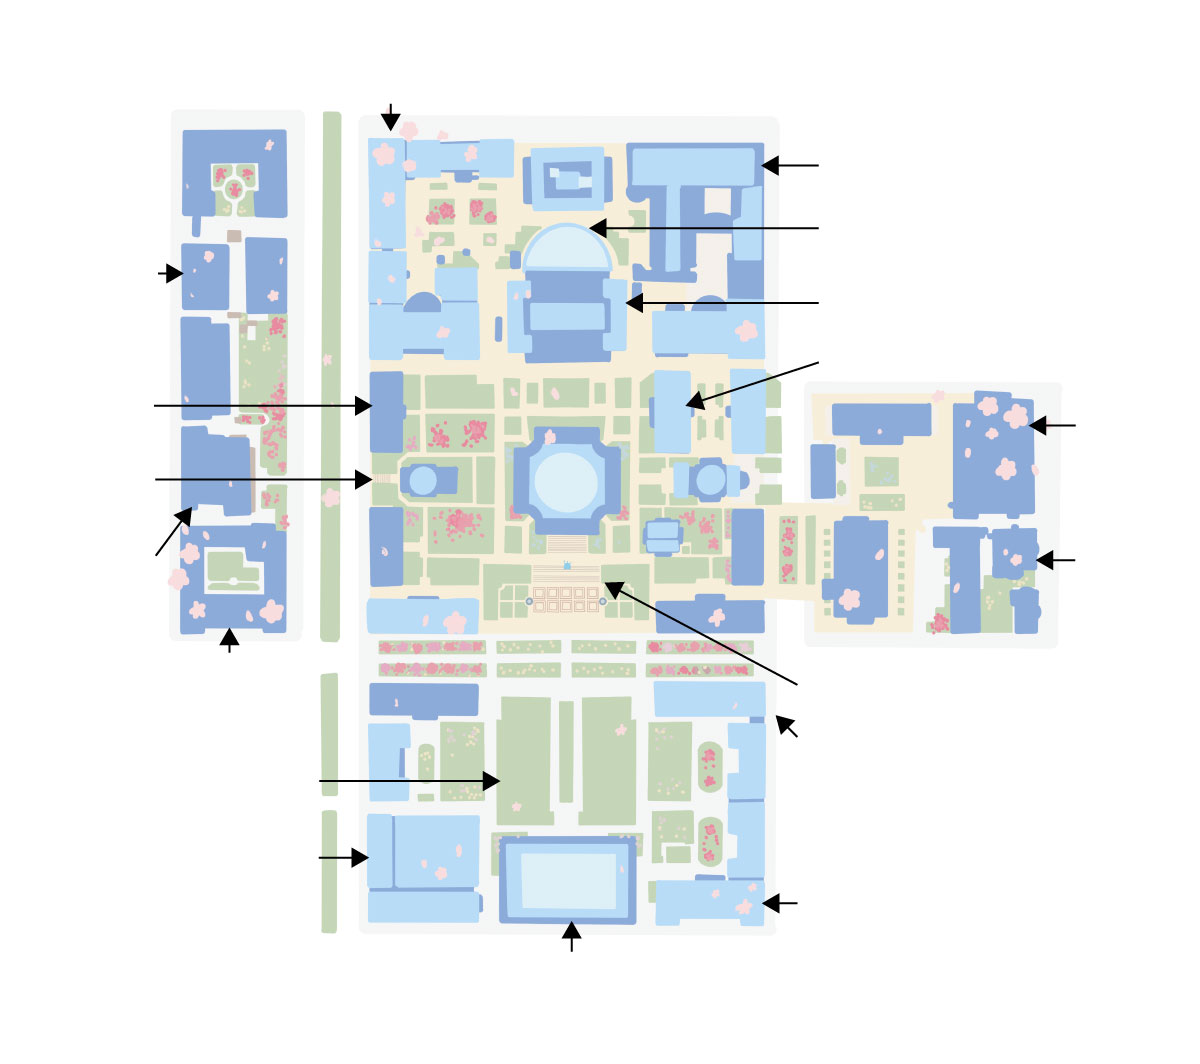
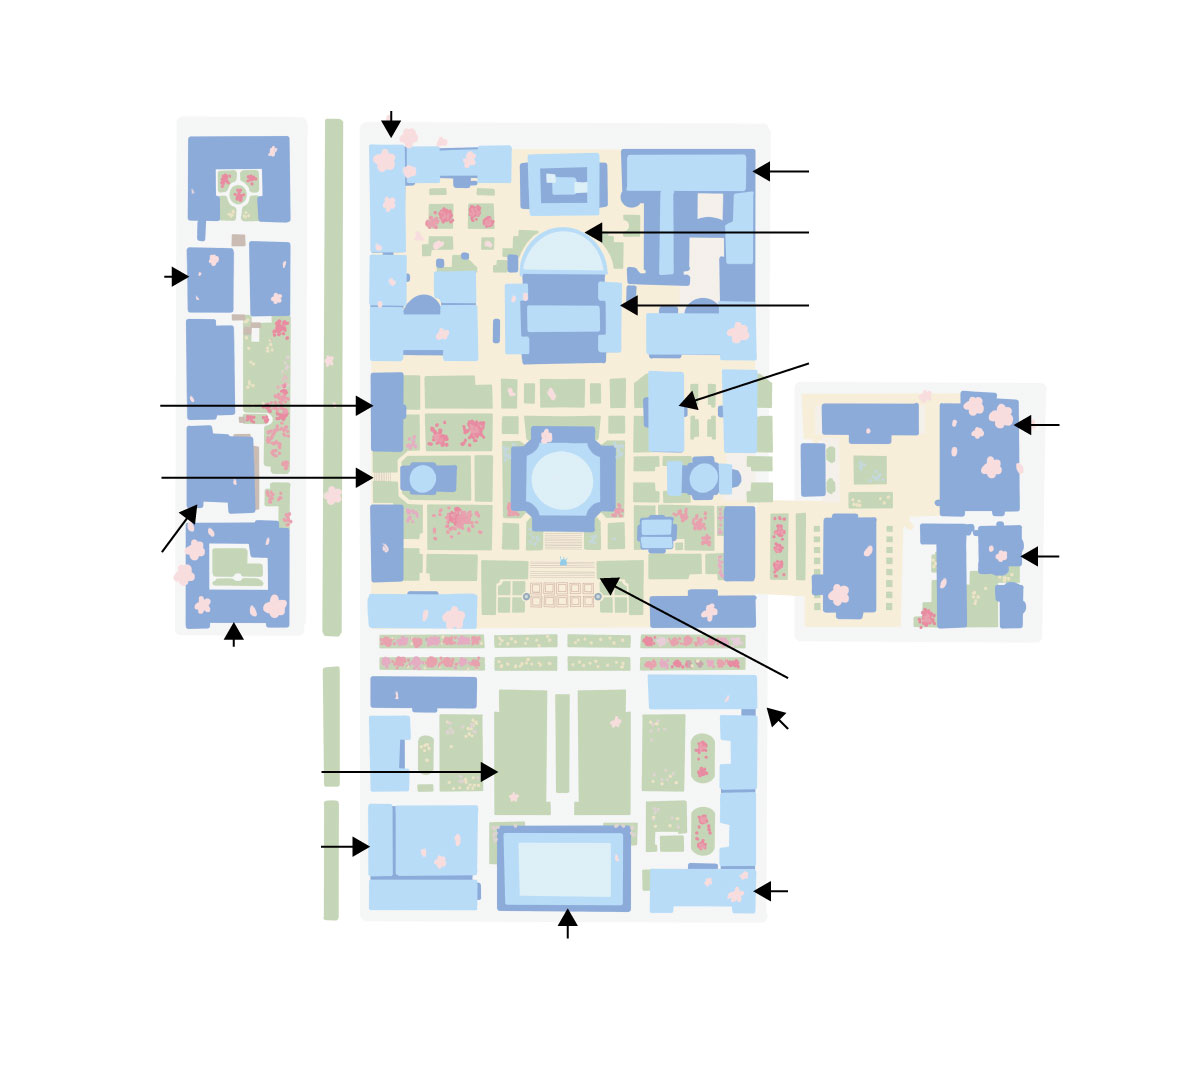
Add files via upload

Changed region(s): [[0.1233, 0.093, 0.8942, 0.8994]]

diff --git a/index.html b/index.html
@@ -14,13 +14,13 @@
                 
 
 
-<style media="screen,print">#g-Commencement-Map-box{container-type:inline-size;container-name:g-Commencement-Map-box}#g-Commencement-Map-box,#g-Commencement-Map-box .g-artboard{margin:0 auto}#g-Commencement-Map-box p{margin:0}#g-Commencement-Map-box .g-aiAbs{position:absolute}#g-Commencement-Map-box .g-aiImg{position:absolute;top:0;display:block;width:100%!important}#g-Commencement-Map-box .g-aiSymbol{position:absolute;box-sizing:border-box}#g-Commencement-Map-box .g-aiPointText p{white-space:nowrap}#g-Commencement-Map-Laptop_Artboard{position:relative;overflow:hidden;display:none}@container g-Commencement-Map-box (width >= 1200px){#g-Commencement-Map-Laptop_Artboard{display:block}}#g-Commencement-Map-Laptop_Artboard p{font-weight:regular;line-height:22px;opacity:1;letter-spacing:0;font-size:18px;text-align:left;color:#000;text-transform:none;padding-bottom:0;padding-top:0;mix-blend-mode:normal;font-style:normal;height:auto;position:static}#g-Commencement-Map-Laptop_Artboard .g-pstyle0{font-weight:500;text-align:center}#g-Commencement-Map-Laptop_Artboard .g-pstyle1{font-weight:500}#g-Commencement-Map-Laptop_Artboard .g-pstyle2{font-weight:500;text-align:right}#g-Commencement-Map-Laptop_Artboard .g-pstyle3{font-weight:500;line-height:19px;font-size:16px;text-align:center;color:#fff}#g-Commencement-Map-Laptop_Artboard .g-pstyle4{color:#949494}#g-Commencement-Map-Laptop_Artboard .g-pstyle4,#g-Commencement-Map-Laptop_Artboard .g-pstyle5{font-family:Roboto,Arial,sans-serif;font-weight:400;line-height:19px;height:19px;font-size:16px}#g-Commencement-Map-Laptop_Artboard .g-cstyle0{color:#000}#g-Commencement-Map-Tablet_Artboard{position:relative;overflow:hidden;display:none}@container g-Commencement-Map-box (width >= 600px) and (width < 1200px){#g-Commencement-Map-Tablet_Artboard{display:block}}#g-Commencement-Map-Tablet_Artboard p{font-weight:regular;line-height:11px;opacity:1;letter-spacing:0;font-size:9px;text-align:left;color:#000;text-transform:none;padding-bottom:0;padding-top:0;mix-blend-mode:normal;font-style:normal;height:auto;position:static}#g-Commencement-Map-Tablet_Artboard .g-pstyle0{font-weight:500;text-align:center}#g-Commencement-Map-Tablet_Artboard .g-pstyle1{font-weight:500}#g-Commencement-Map-Tablet_Artboard .g-pstyle2{font-weight:500;text-align:right}#g-Commencement-Map-Tablet_Artboard .g-pstyle3{font-weight:500;line-height:10px;font-size:8px;text-align:center;color:#fff}#g-Commencement-Map-Tablet_Artboard .g-pstyle4{color:#949494}#g-Commencement-Map-Tablet_Artboard .g-pstyle4,#g-Commencement-Map-Tablet_Artboard .g-pstyle5{font-family:Roboto,Arial,sans-serif;font-weight:400;height:11px}#g-Commencement-Map-Tablet_Artboard .g-cstyle0{color:#000}#g-Commencement-Map-Mobile_Artboard{position:relative;overflow:hidden}@container g-Commencement-Map-box (width >= 600px){#g-Commencement-Map-Mobile_Artboard{display:none}}#g-Commencement-Map-Mobile_Artboard p{font-weight:regular;line-height:5px;opacity:1;letter-spacing:0;font-size:4px;text-align:left;color:#000;text-transform:none;padding-bottom:0;padding-top:0;mix-blend-mode:normal;font-style:normal;height:auto;position:static}#g-Commencement-Map-Mobile_Artboard .g-pstyle0{font-weight:500;text-align:center}#g-Commencement-Map-Mobile_Artboard .g-pstyle1{font-weight:500}#g-Commencement-Map-Mobile_Artboard .g-pstyle2{font-weight:500;text-align:right}#g-Commencement-Map-Mobile_Artboard .g-pstyle3{font-weight:500;text-align:center;color:#fff}#g-Commencement-Map-Mobile_Artboard .g-pstyle4{color:#949494}#g-Commencement-Map-Mobile_Artboard .g-pstyle4,#g-Commencement-Map-Mobile_Artboard .g-pstyle5{font-family:Roboto,Arial,sans-serif;font-weight:400;line-height:6px;height:6px;font-size:5px}#g-Commencement-Map-Mobile_Artboard .g-cstyle0{color:#000}</style>
+<style media="screen,print">#g-Commencement-Map-box{container-type:inline-size;container-name:g-Commencement-Map-box}#g-Commencement-Map-box,#g-Commencement-Map-box .g-artboard{margin:0 auto}#g-Commencement-Map-box p{margin:0}#g-Commencement-Map-box .g-aiAbs{position:absolute}#g-Commencement-Map-box .g-aiImg{position:absolute;top:0;display:block;width:100%!important}#g-Commencement-Map-box .g-aiSymbol{position:absolute;box-sizing:border-box}#g-Commencement-Map-box .g-aiPointText p{white-space:nowrap}#g-Commencement-Map-Laptop_Artboard{position:relative;overflow:hidden;display:none}@container g-Commencement-Map-box (width >= 1200px){#g-Commencement-Map-Laptop_Artboard{display:block}}#g-Commencement-Map-Laptop_Artboard p{font-weight:regular;line-height:22px;opacity:1;letter-spacing:0;font-size:18px;text-align:left;color:#000;text-transform:none;padding-bottom:0;padding-top:0;mix-blend-mode:normal;font-style:normal;height:auto;position:static}#g-Commencement-Map-Laptop_Artboard .g-pstyle0{font-weight:500;text-align:center}#g-Commencement-Map-Laptop_Artboard .g-pstyle1{font-weight:500}#g-Commencement-Map-Laptop_Artboard .g-pstyle2{font-weight:500;text-align:right}#g-Commencement-Map-Laptop_Artboard .g-pstyle3{color:#949494}#g-Commencement-Map-Laptop_Artboard .g-pstyle3,#g-Commencement-Map-Laptop_Artboard .g-pstyle4{font-family:Roboto,Arial,sans-serif;font-weight:400;line-height:19px;height:19px;font-size:16px}#g-Commencement-Map-Laptop_Artboard .g-cstyle0{color:#000}#g-Commencement-Map-Mobile_Artboard{position:relative;overflow:hidden}@container g-Commencement-Map-box (width >= 600px){#g-Commencement-Map-Mobile_Artboard{display:none}}#g-Commencement-Map-Mobile_Artboard p{font-weight:regular;line-height:5px;opacity:1;letter-spacing:0;font-size:4px;text-align:left;color:#000;text-transform:none;padding-bottom:0;padding-top:0;mix-blend-mode:normal;font-style:normal;height:auto;position:static}#g-Commencement-Map-Mobile_Artboard .g-pstyle0{font-weight:500;text-align:center}#g-Commencement-Map-Mobile_Artboard .g-pstyle1{font-weight:500}#g-Commencement-Map-Mobile_Artboard .g-pstyle2{font-weight:500;text-align:right}#g-Commencement-Map-Mobile_Artboard .g-pstyle3{color:#949494}#g-Commencement-Map-Mobile_Artboard .g-pstyle3,#g-Commencement-Map-Mobile_Artboard .g-pstyle4{font-family:Roboto,Arial,sans-serif;font-weight:400;line-height:6px;height:6px;font-size:5px}#g-Commencement-Map-Mobile_Artboard .g-cstyle0{color:#000}#g-Commencement-Map-Tablet_Artboard{position:relative;overflow:hidden;display:none}@container g-Commencement-Map-box (width >= 600px) and (width < 1200px){#g-Commencement-Map-Tablet_Artboard{display:block}}#g-Commencement-Map-Tablet_Artboard p{font-weight:regular;line-height:11px;opacity:1;letter-spacing:0;font-size:9px;text-align:left;color:#000;text-transform:none;padding-bottom:0;padding-top:0;mix-blend-mode:normal;font-style:normal;height:auto;position:static}#g-Commencement-Map-Tablet_Artboard .g-pstyle0{font-weight:500;text-align:center}#g-Commencement-Map-Tablet_Artboard .g-pstyle1{font-weight:500}#g-Commencement-Map-Tablet_Artboard .g-pstyle2{font-weight:500;text-align:right}#g-Commencement-Map-Tablet_Artboard .g-pstyle3{color:#949494}#g-Commencement-Map-Tablet_Artboard .g-pstyle3,#g-Commencement-Map-Tablet_Artboard .g-pstyle4{font-family:Roboto,Arial,sans-serif;font-weight:400;line-height:17px;height:17px;font-size:14px}#g-Commencement-Map-Tablet_Artboard .g-cstyle0{color:#000}</style>
 
 <div id="g-Commencement-Map-box" class="ai2html">
 	
 	<div id="g-Commencement-Map-Laptop_Artboard" class="g-artboard" style="width:1200px;height:1100px;" data-aspect-ratio="1.091" data-min-width="1200">
 		<div></div>
-		<img id="g-Commencement-Map-Laptop_Artboard-img" class="g-aiImg g-Commencement-Map-Laptop_Artboard-img" alt="" src="Commencement-Map-Laptop_Artboard.a4b33018.jpg">
+		<img id="g-Commencement-Map-Laptop_Artboard-img" class="g-aiImg g-Commencement-Map-Laptop_Artboard-img" alt="" loading="lazy" src="Commencement-Map-Laptop_Artboard.a4b33018.jpg">
 		<div id="g-ai0-1" class="g-aiAbs g-Layer_1" style="top:.1818%;left:32.1653%;margin-left:-5.5833%;width:11.1667%;">
 			<p class="g-pstyle0">100 hours spent on unsuccessful coffee chats</p>
 			<p>&nbsp;</p>
@@ -59,7 +59,7 @@
 			<p class="g-pstyle0">5 trauma-bonded lifelong friendships formed</p>
 		</div>
 		<div id="g-ai0-13" class="g-aiAbs g-Layer_1" style="top:60.0909%;left:66.0635%;width:21.5%;">
-			<p class="g-pstyle1">1 graduation almost at Baker</p>
+			<p class="g-pstyle1">1 commencement (It was almost at Baker)</p>
 		</div>
 		<div id="g-ai0-14" class="g-aiAbs g-Layer_1" style="top:64.8182%;left:66.2664%;width:14.3333%;">
 			<p class="g-pstyle1">30 hours spent in elevator queues </p>
@@ -74,163 +74,142 @@
 		<div id="g-ai0-17" class="g-aiAbs g-Layer_1" style="top:79.7273%;left:66.2664%;width:20.6667%;">
 			<p class="g-pstyle1">11 suspected JJ&rsquo;s food poisoning incidents</p>
 		</div>
-		<div id="g-ai0-18" class="g-aiAbs g-Layer_1" style="top:80.0909%;left:72.666%;margin-left:-3.375%;width:6.75%;">
-			<p class="g-pstyle3">11 suspected JJ&rsquo;s Place food poisoning incidents</p>
-		</div>
-		<div id="g-ai0-19" class="g-aiAbs g-Layer_1" style="top:80.0909%;left:72.666%;margin-left:-3.375%;width:6.75%;">
-			<p class="g-pstyle3">11 suspected JJ&rsquo;s Place food poisoning incidents</p>
-		</div>
-		<div id="g-ai0-20" class="g-aiAbs g-Layer_1" style="top:86.4545%;left:47.2367%;margin-left:-5.875%;width:11.75%;">
+		<div id="g-ai0-18" class="g-aiAbs g-Layer_1" style="top:86.4545%;left:47.2367%;margin-left:-5.875%;width:11.75%;">
 			<p class="g-pstyle0">9 all-nighters completed</p>
 		</div>
-		<div id="g-ai0-21" class="g-aiAbs g-aiPointText g-Layer_1" style="top:96.8283%;margin-top:-20.1px;left:1.7692%;width:171px;">
-			<p class="g-pstyle4">Graphic by Ava Fung<span class="g-cstyle0"> </span></p>
-			<p class="g-pstyle5"> </p>
-		</div>
-	</div>
-	
-	<div id="g-Commencement-Map-Tablet_Artboard" class="g-artboard" style="width:600px;height:532.100407647296px;" data-aspect-ratio="1.128" data-min-width="600" data-max-width="1199">
-		<div></div>
-		<img id="g-Commencement-Map-Tablet_Artboard-img" class="g-aiImg g-Commencement-Map-Tablet_Artboard-img" alt="" src="Commencement-Map-Tablet_Artboard.f4940fc9.jpg">
-		<div id="g-ai1-1" class="g-aiAbs g-Layer_1" style="top:.5638%;left:32.5583%;margin-left:-5.5833%;width:11.1667%;">
-			<p class="g-pstyle0">100 hours spent on unsuccessful coffee chats</p>
-			<p>&nbsp;</p>
-		</div>
-		<div id="g-ai1-2" class="g-aiAbs g-Layer_1" style="top:13.3433%;left:68.609%;width:19.5%;">
-			<p class="g-pstyle1">0 meal swipes used at Chef Don&rsquo;s</p>
-		</div>
-		<div id="g-ai1-3" class="g-aiAbs g-Layer_1" style="top:19.7331%;left:68.609%;width:19%;">
-			<p class="g-pstyle1">-1 net study hours recorded in study rooms</p>
-		</div>
-		<div id="g-ai1-4" class="g-aiAbs g-Layer_1" style="top:20.4849%;right:86.9327%;width:12.6667%;">
-			<p class="g-pstyle2">17 &ldquo;Construction will be done soon&rdquo; announcements received</p>
-		</div>
-		<div id="g-ai1-5" class="g-aiAbs g-Layer_1" style="top:26.4988%;left:68.609%;width:21%;">
-			<p class="g-pstyle1">24 questions asked at networking events</p>
-		</div>
-		<div id="g-ai1-6" class="g-aiAbs g-Layer_1" style="top:31.3851%;left:68.8338%;width:22%;">
-			<p class="g-pstyle1">22 &ldquo;shhh&rdquo; interruptions endured during finals week</p>
-		</div>
-		<div id="g-ai1-7" class="g-aiAbs g-Layer_1" style="top:36.2713%;right:87.4781%;width:12.3333%;">
-			<p class="g-pstyle2">4 calculus exams bombed</p>
-		</div>
-		<div id="g-ai1-8" class="g-aiAbs g-Layer_1" style="top:36.6472%;left:90.0874%;width:8.6667%;">
-			<p class="g-pstyle1">17 pregames attended</p>
-		</div>
-		<div id="g-ai1-9" class="g-aiAbs g-Layer_1" style="top:41.9094%;right:87.3604%;width:12.5%;">
-			<p class="g-pstyle2">5 documented falls on the Earl stairs</p>
-		</div>
-		<div id="g-ai1-10" class="g-aiAbs g-Layer_1" style="top:44.9163%;left:14.5596%;width:83.3333%;">
-			<p class="g-pstyle1">📌 How to read this chart</p>
-		</div>
-		<div id="g-ai1-11" class="g-aiAbs g-Layer_1" style="top:47.5474%;left:90.0325%;width:10.1667%;">
-			<p class="g-pstyle1">103 chocolate chip cookies smuggled out of Fac House</p>
-		</div>
-		<div id="g-ai1-12" class="g-aiAbs g-Layer_1" style="top:49.2388%;right:87.0994%;width:12.5%;">
-			<p class="g-pstyle2">90,000 grams of protein consumed</p>
-		</div>
-		<div id="g-ai1-13" class="g-aiAbs g-Layer_1" style="top:61.6425%;left:18.3639%;margin-left:-9%;width:18%;">
-			<p class="g-pstyle0">5 trauma-bonded lifelong friendships formed</p>
-		</div>
-		<div id="g-ai1-14" class="g-aiAbs g-Layer_1" style="top:62.5822%;left:66.4451%;width:21.5%;">
-			<p class="g-pstyle1">1 graduation almost at Baker</p>
-		</div>
-		<div id="g-ai1-15" class="g-aiAbs g-Layer_1" style="top:67.4685%;left:66.648%;width:14.3333%;">
-			<p class="g-pstyle1">30 hours spent in elevator queues </p>
-		</div>
-		<div id="g-ai1-16" class="g-aiAbs g-Layer_1" style="top:71.603%;right:73.8393%;width:14.1667%;">
-			<p class="g-pstyle2">7 spikeball impacts sustained</p>
-			<p>&nbsp;</p>
-		</div>
-		<div id="g-ai1-17" class="g-aiAbs g-Layer_1" style="top:77.9928%;right:73.8056%;width:19.1667%;">
-			<p class="g-pstyle2">300 Flex dollars spent at Café East in the last week of school</p>
-		</div>
-		<div id="g-ai1-18" class="g-aiAbs g-Layer_1" style="top:82.8791%;left:66.648%;width:20.6667%;">
-			<p class="g-pstyle1">11 suspected JJ&rsquo;s food poisoning incidents</p>
-		</div>
-		<div id="g-ai1-19" class="g-aiAbs g-Layer_1" style="top:83.067%;left:73.005%;margin-left:-3.3333%;width:6.6667%;">
-			<p class="g-pstyle3">11 suspected JJ&rsquo;s Place food poisoning incidents</p>
-		</div>
-		<div id="g-ai1-20" class="g-aiAbs g-Layer_1" style="top:83.067%;left:73.005%;margin-left:-3.3333%;width:6.6667%;">
-			<p class="g-pstyle3">11 suspected JJ&rsquo;s Place food poisoning incidents</p>
-		</div>
-		<div id="g-ai1-21" class="g-aiAbs g-Layer_1" style="top:89.6447%;left:47.6671%;margin-left:-5.9167%;width:11.8333%;">
-			<p class="g-pstyle0">9 all-nighters completed</p>
-		</div>
-		<div id="g-ai1-22" class="g-aiAbs g-aiPointText g-Layer_1" style="top:98.0019%;margin-top:-11.5px;left:.6076%;width:106px;">
-			<p class="g-pstyle4">Graphic by Ava Fung<span class="g-cstyle0"> </span></p>
-			<p class="g-pstyle5"> </p>
+		<div id="g-ai0-19" class="g-aiAbs g-aiPointText g-Layer_1" style="top:96.8283%;margin-top:-20.1px;left:2.0661%;width:171px;">
+			<p class="g-pstyle3">Graphic by Ava Fung<span class="g-cstyle0"> </span></p>
+			<p class="g-pstyle4"> </p>
 		</div>
 	</div>
 	
 	<div id="g-Commencement-Map-Mobile_Artboard" class="g-artboard" style="max-width:300px;max-height:275px" data-aspect-ratio="1.091" data-min-width="0" data-max-width="599">
 		<div style="padding:0 0 91.6231% 0;"></div>
-		<img id="g-Commencement-Map-Mobile_Artboard-img" class="g-aiImg g-Commencement-Map-Mobile_Artboard-img" alt="" src="Commencement-Map-Mobile_Artboard.fdd98706.jpg">
-		<div id="g-ai2-1" class="g-aiAbs g-Layer_1" style="top:1.0914%;left:32.2461%;margin-left:-5.5%;width:11%;">
+		<img id="g-Commencement-Map-Mobile_Artboard-img" class="g-aiImg g-Commencement-Map-Mobile_Artboard-img" alt="" loading="lazy" src="Commencement-Map-Mobile_Artboard.fdd98706.jpg">
+		<div id="g-ai1-1" class="g-aiAbs g-Layer_1" style="top:1.0914%;left:32.2461%;margin-left:-5.5%;width:11%;">
 			<p class="g-pstyle0">100 hours spent on unsuccessful coffee chats</p>
 			<p>&nbsp;</p>
 		</div>
-		<div id="g-ai2-2" class="g-aiAbs g-Layer_1" style="top:13.4609%;left:68.2418%;width:19.3333%;">
+		<div id="g-ai1-2" class="g-aiAbs g-Layer_1" style="top:13.4609%;left:68.2418%;width:19.3333%;">
 			<p class="g-pstyle1">0 meal swipes used at Chef Don&rsquo;s</p>
 		</div>
-		<div id="g-ai2-3" class="g-aiAbs g-Layer_1" style="top:19.2819%;left:68.2418%;width:19%;">
+		<div id="g-ai1-3" class="g-aiAbs g-Layer_1" style="top:19.2819%;left:68.2418%;width:19%;">
 			<p class="g-pstyle1">-1 net study hours recorded in study rooms</p>
 		</div>
-		<div id="g-ai2-4" class="g-aiAbs g-Layer_1" style="top:20.0095%;right:87.0731%;width:12.6667%;">
+		<div id="g-ai1-4" class="g-aiAbs g-Layer_1" style="top:20.0095%;right:87.0731%;width:12.6667%;">
 			<p class="g-pstyle2">17 &ldquo;Construction will be done soon&rdquo; announcements received</p>
 		</div>
-		<div id="g-ai2-5" class="g-aiAbs g-Layer_1" style="top:26.1943%;left:68.2418%;width:21%;">
+		<div id="g-ai1-5" class="g-aiAbs g-Layer_1" style="top:26.1943%;left:68.2418%;width:21%;">
 			<p class="g-pstyle1">24 questions asked at networking events</p>
 		</div>
-		<div id="g-ai2-6" class="g-aiAbs g-Layer_1" style="top:30.56%;left:68.4658%;width:22%;">
+		<div id="g-ai1-6" class="g-aiAbs g-Layer_1" style="top:30.56%;left:68.4658%;width:22%;">
 			<p class="g-pstyle1">22 &ldquo;shhh&rdquo; interruptions endured during finals week</p>
 		</div>
-		<div id="g-ai2-7" class="g-aiAbs g-Layer_1" style="top:35.2895%;right:87.6178%;width:12.3333%;">
+		<div id="g-ai1-7" class="g-aiAbs g-Layer_1" style="top:35.2895%;right:87.6178%;width:12.3333%;">
 			<p class="g-pstyle2">4 calculus exams bombed</p>
 		</div>
-		<div id="g-ai2-8" class="g-aiAbs g-Layer_1" style="top:35.6533%;left:89.6487%;width:8.6667%;">
+		<div id="g-ai1-8" class="g-aiAbs g-Layer_1" style="top:35.6533%;left:89.6487%;width:8.6667%;">
 			<p class="g-pstyle1">17 pregames attended</p>
 		</div>
-		<div id="g-ai2-9" class="g-aiAbs g-Layer_1" style="top:40.7466%;right:87.6667%;width:12.3333%;">
+		<div id="g-ai1-9" class="g-aiAbs g-Layer_1" style="top:40.7466%;right:87.6667%;width:12.3333%;">
 			<p class="g-pstyle2">5 documented falls on the Earl stairs</p>
 		</div>
-		<div id="g-ai2-10" class="g-aiAbs g-Layer_1" style="top:46.2038%;left:89.594%;width:10%;">
+		<div id="g-ai1-10" class="g-aiAbs g-Layer_1" style="top:46.2038%;left:89.594%;width:10%;">
 			<p class="g-pstyle1">103 chocolate chip cookies smuggled out of Fac House</p>
 		</div>
-		<div id="g-ai2-11" class="g-aiAbs g-Layer_1" style="top:48.0228%;right:87.4065%;width:12.3333%;">
+		<div id="g-ai1-11" class="g-aiAbs g-Layer_1" style="top:48.0228%;right:87.4065%;width:12.3333%;">
 			<p class="g-pstyle2">90,000 grams of protein consumed</p>
 		</div>
-		<div id="g-ai2-12" class="g-aiAbs g-Layer_1" style="top:59.6647%;left:18.1937%;margin-left:-9%;width:18%;">
+		<div id="g-ai1-12" class="g-aiAbs g-Layer_1" style="top:60.7561%;left:66.0851%;width:21.3333%;">
+			<p class="g-pstyle1">1 commencement (It was almost at Baker)</p>
+		</div>
+		<div id="g-ai1-13" class="g-aiAbs g-Layer_1" style="top:61.1199%;left:18.1526%;margin-left:-9%;width:18%;">
 			<p class="g-pstyle0">5 trauma-bonded lifelong friendships formed</p>
 		</div>
-		<div id="g-ai2-13" class="g-aiAbs g-Layer_1" style="top:60.7561%;left:66.0851%;width:21.3333%;">
-			<p class="g-pstyle1">1 graduation almost at Baker</p>
-		</div>
-		<div id="g-ai2-14" class="g-aiAbs g-Layer_1" style="top:67.6685%;left:68.8016%;width:14.3333%;">
+		<div id="g-ai1-14" class="g-aiAbs g-Layer_1" style="top:67.6685%;left:68.8016%;width:14.3333%;">
 			<p class="g-pstyle1">30 hours spent in elevator queues </p>
 		</div>
-		<div id="g-ai2-15" class="g-aiAbs g-Layer_1" style="top:69.4876%;right:73.8517%;width:14.3333%;">
+		<div id="g-ai1-15" class="g-aiAbs g-Layer_1" style="top:69.4876%;right:73.8517%;width:14.3333%;">
 			<p class="g-pstyle2">7 spikeball impacts sustained</p>
 			<p>&nbsp;</p>
 		</div>
-		<div id="g-ai2-16" class="g-aiAbs g-Layer_1" style="top:75.6723%;right:74.1348%;width:19%;">
+		<div id="g-ai1-16" class="g-aiAbs g-Layer_1" style="top:75.6723%;right:74.1348%;width:19%;">
 			<p class="g-pstyle2">300 Flex dollars spent at Café East in the last week of school</p>
 		</div>
-		<div id="g-ai2-17" class="g-aiAbs g-Layer_1" style="top:80.4018%;left:69.1192%;width:20.6667%;">
+		<div id="g-ai1-17" class="g-aiAbs g-Layer_1" style="top:80.4018%;left:69.1192%;width:20.6667%;">
 			<p class="g-pstyle1">11 suspected JJ&rsquo;s food poisoning incidents</p>
 		</div>
-		<div id="g-ai2-18" class="g-aiAbs g-Layer_1" style="top:80.7656%;left:72.6342%;margin-left:-3.3333%;width:6.6667%;">
-			<p class="g-pstyle3">11 suspected JJ&rsquo;s Place food poisoning incidents</p>
-		</div>
-		<div id="g-ai2-19" class="g-aiAbs g-Layer_1" style="top:80.7656%;left:72.6342%;margin-left:-3.3333%;width:6.6667%;">
-			<p class="g-pstyle3">11 suspected JJ&rsquo;s Place food poisoning incidents</p>
-		</div>
-		<div id="g-ai2-20" class="g-aiAbs g-Layer_1" style="top:90.2247%;left:47.3059%;margin-left:-5.8333%;width:11.6667%;">
+		<div id="g-ai1-18" class="g-aiAbs g-Layer_1" style="top:90.2247%;left:47.3059%;margin-left:-5.8333%;width:11.6667%;">
 			<p class="g-pstyle0">9 all-nighters completed</p>
 		</div>
-		<div id="g-ai2-21" class="g-aiAbs g-aiPointText g-Layer_1" style="top:98.3435%;margin-top:-6.3px;left:.3485%;width:69px;">
-			<p class="g-pstyle4">Graphic by Ava Fung<span class="g-cstyle0"> </span></p>
-			<p class="g-pstyle5"> </p>
+		<div id="g-ai1-19" class="g-aiAbs g-aiPointText g-Layer_1" style="top:98.3435%;margin-top:-6.3px;left:.3485%;width:69px;">
+			<p class="g-pstyle3">Graphic by Ava Fung<span class="g-cstyle0"> </span></p>
+			<p class="g-pstyle4"> </p>
+		</div>
+	</div>
+	
+	<div id="g-Commencement-Map-Tablet_Artboard" class="g-artboard" style="width:600px;height:544.929460580917px;" data-aspect-ratio="1.101" data-min-width="600" data-max-width="1199">
+		<div></div>
+		<img id="g-Commencement-Map-Tablet_Artboard-img" class="g-aiImg g-Commencement-Map-Tablet_Artboard-img" alt="" loading="lazy" src="Commencement-Map-Tablet_Artboard.f4940fc9.jpg">
+		<div id="g-ai2-1" class="g-aiAbs g-Layer_1" style="top:1.4681%;left:32.5652%;margin-left:-5.4167%;width:10.8333%;">
+			<p class="g-pstyle0">100 hours spent on unsuccessful coffee chats</p>
+			<p>&nbsp;</p>
+		</div>
+		<div id="g-ai2-2" class="g-aiAbs g-Layer_1" style="top:13.5797%;left:67.7701%;width:19%;">
+			<p class="g-pstyle1">0 meal swipes used at Chef Don&rsquo;s</p>
+		</div>
+		<div id="g-ai2-3" class="g-aiAbs g-Layer_1" style="top:19.6356%;left:67.7701%;width:18.6667%;">
+			<p class="g-pstyle1">-1 net study hours recorded in study rooms</p>
+		</div>
+		<div id="g-ai2-4" class="g-aiAbs g-Layer_1" style="top:20.3696%;right:86.4462%;width:12.3333%;">
+			<p class="g-pstyle2">17 &ldquo;Construction will be done soon&rdquo; announcements received</p>
+		</div>
+		<div id="g-ai2-5" class="g-aiAbs g-Layer_1" style="top:26.2419%;left:67.7701%;width:20.5%;">
+			<p class="g-pstyle1">24 questions asked at networking events</p>
+		</div>
+		<div id="g-ai2-6" class="g-aiAbs g-Layer_1" style="top:30.8297%;left:67.9895%;width:21.5%;">
+			<p class="g-pstyle1">22 &ldquo;shhh&rdquo; interruptions endured during finals week</p>
+		</div>
+		<div id="g-ai2-7" class="g-aiAbs g-Layer_1" style="top:35.4174%;right:86.9864%;width:12%;">
+			<p class="g-pstyle2">4 calculus exams bombed</p>
+		</div>
+		<div id="g-ai2-8" class="g-aiAbs g-Layer_1" style="top:35.7844%;left:88.7262%;width:8.5%;">
+			<p class="g-pstyle1">17 pregames attended</p>
+		</div>
+		<div id="g-ai2-9" class="g-aiAbs g-Layer_1" style="top:40.7392%;right:86.8675%;width:12.1667%;">
+			<p class="g-pstyle2">5 documented falls on the Earl stairs</p>
+		</div>
+		<div id="g-ai2-10" class="g-aiAbs g-Layer_1" style="top:46.061%;left:88.6727%;width:10%;">
+			<p class="g-pstyle1">103 chocolate chip cookies smuggled out of Fac House</p>
+		</div>
+		<div id="g-ai2-11" class="g-aiAbs g-Layer_1" style="top:47.7126%;right:86.6128%;width:12.1667%;">
+			<p class="g-pstyle2">90,000 grams of protein consumed</p>
+		</div>
+		<div id="g-ai2-12" class="g-aiAbs g-Layer_1" style="top:59.6407%;left:18.7992%;margin-left:-8.8333%;width:17.6667%;">
+			<p class="g-pstyle0">5 trauma-bonded lifelong friendships formed</p>
+		</div>
+		<div id="g-ai2-13" class="g-aiAbs g-Layer_1" style="top:60.3748%;left:65.6589%;width:21%;">
+			<p class="g-pstyle1">1 commencement (It was almost at Baker)</p>
+		</div>
+		<div id="g-ai2-14" class="g-aiAbs g-Layer_1" style="top:65.146%;left:65.8568%;width:14%;">
+			<p class="g-pstyle1">30 hours spent in elevator queues </p>
+		</div>
+		<div id="g-ai2-15" class="g-aiAbs g-Layer_1" style="top:68.9998%;right:73.6347%;width:13.8333%;">
+			<p class="g-pstyle2">7 spikeball impacts sustained</p>
+			<p>&nbsp;</p>
+		</div>
+		<div id="g-ai2-16" class="g-aiAbs g-Layer_1" style="top:75.2391%;right:73.6469%;width:18.6667%;">
+			<p class="g-pstyle2">300 Flex dollars spent at Café East in the last week of school</p>
+		</div>
+		<div id="g-ai2-17" class="g-aiAbs g-Layer_1" style="top:79.8268%;left:65.8568%;width:20.1667%;">
+			<p class="g-pstyle1">11 suspected JJ&rsquo;s food poisoning incidents</p>
+		</div>
+		<div id="g-ai2-18" class="g-aiAbs g-Layer_1" style="top:86.4332%;left:47.3147%;margin-left:-5.75%;width:11.5%;">
+			<p class="g-pstyle0">9 all-nighters completed</p>
+		</div>
+		<div id="g-ai2-19" class="g-aiAbs g-aiPointText g-Layer_1" style="top:94.8352%;margin-top:-17.8px;left:3.0657%;width:152px;">
+			<p class="g-pstyle3">Graphic by Ava Fung<span class="g-cstyle0"> </span></p>
+			<p class="g-pstyle4"> </p>
 		</div>
 	</div>
 </div>
@@ -253,4 +232,4 @@
 </p>
 
           
-       </div> <div class="footer g-body"> <div class="article-credits">  <p> Produced with <a href="https://github.com/graphicsdesk/spectate">Spectate</a> by <a href="https://graphicsdesk.github.io">Emily Ta</a> </p> </div> </div> <script src="script.75da7f30.js"></script> </body></html>
+       </div> <div class="footer g-body"> <div class="article-credits">  <p> Produced with <a href="https://github.com/graphicsdesk/spectate">Spectate</a> by <a href="https://graphicsdesk.github.io">Emily Ta</a></p> </div> </div> <script src="script.75da7f30.js"></script> </body></html>

diff --git a/index.js b/index.js
@@ -212,7 +212,7 @@ var parent = module.bundle.parent;
 if ((!parent || !parent.isParcelRequire) && typeof WebSocket !== 'undefined') {
   var hostname = "" || location.hostname;
   var protocol = location.protocol === 'https:' ? 'wss' : 'ws';
-  var ws = new WebSocket(protocol + '://' + hostname + ':' + "52111" + '/');
+  var ws = new WebSocket(protocol + '://' + hostname + ':' + "60268" + '/');
 
   ws.onmessage = function (event) {
     checkedAssets = {};

diff --git a/styles.164d45a1.js b/styles.164d45a1.js
@@ -217,7 +217,7 @@ var parent = module.bundle.parent;
 if ((!parent || !parent.isParcelRequire) && typeof WebSocket !== 'undefined') {
   var hostname = "" || location.hostname;
   var protocol = location.protocol === 'https:' ? 'wss' : 'ws';
-  var ws = new WebSocket(protocol + '://' + hostname + ':' + "52111" + '/');
+  var ws = new WebSocket(protocol + '://' + hostname + ':' + "60268" + '/');
 
   ws.onmessage = function (event) {
     checkedAssets = {};